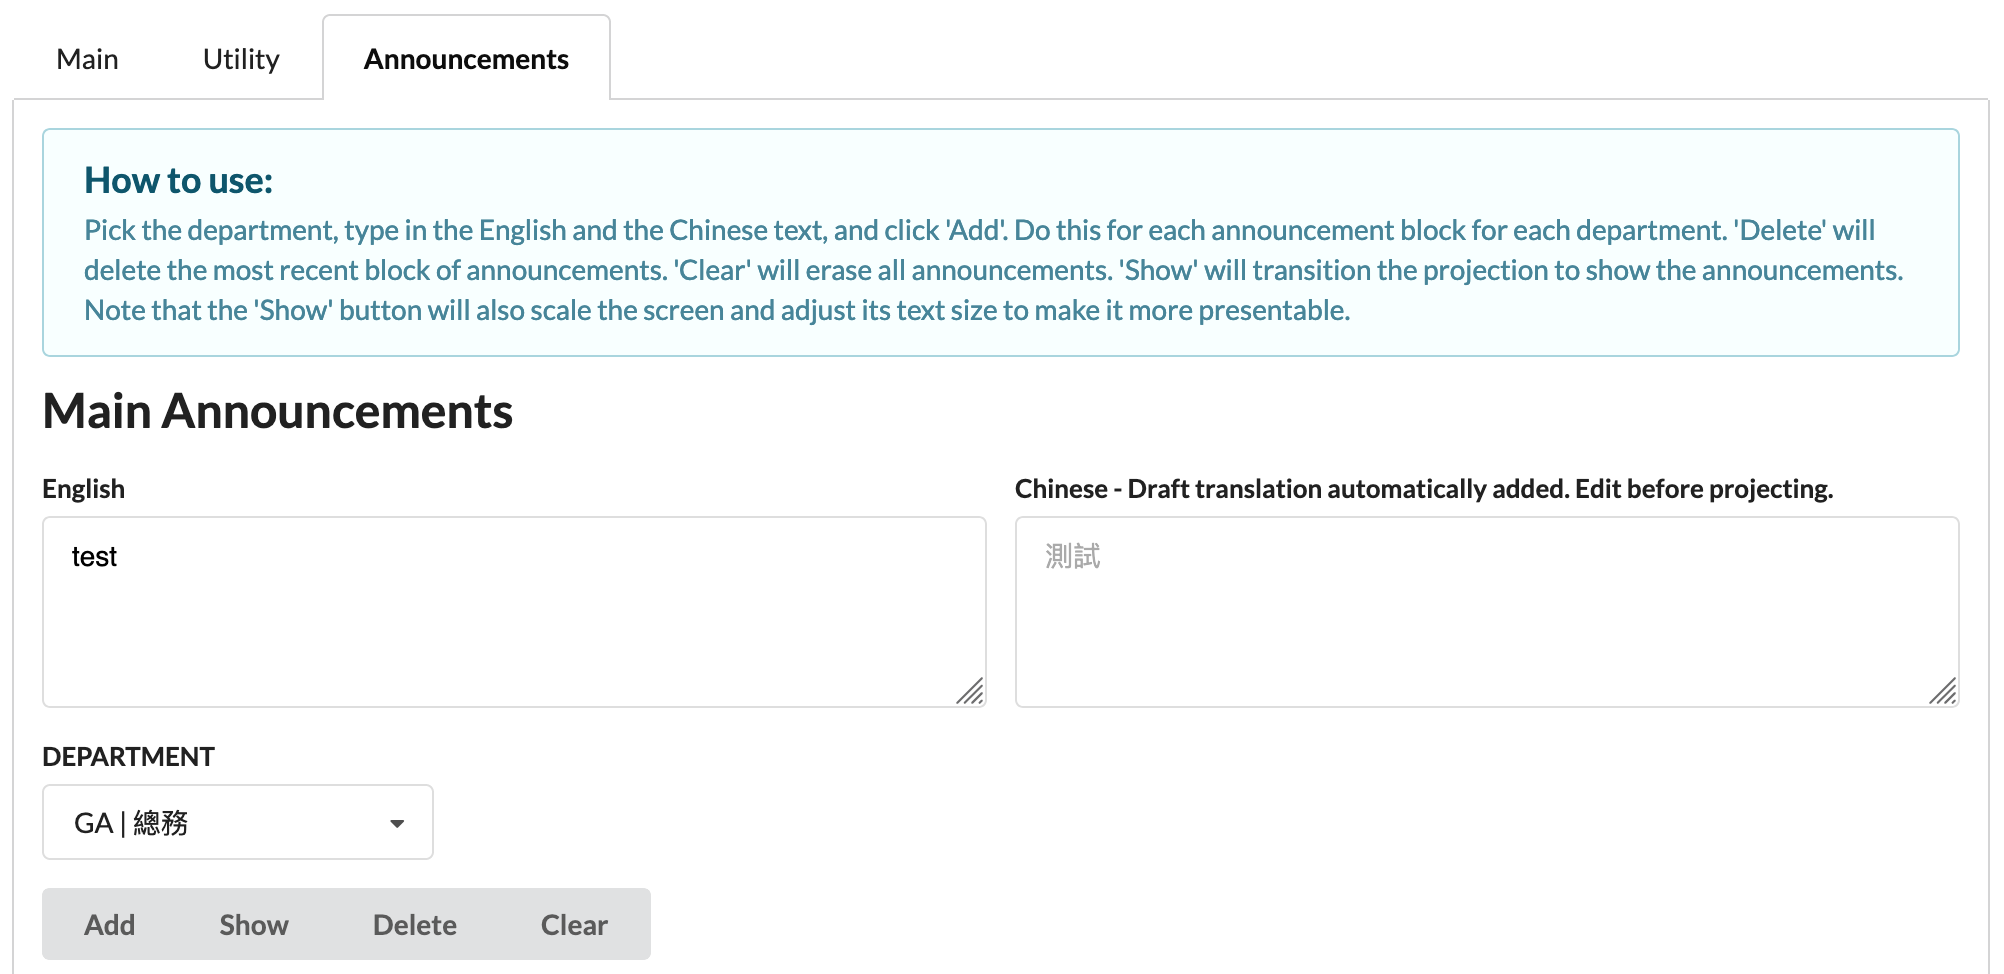
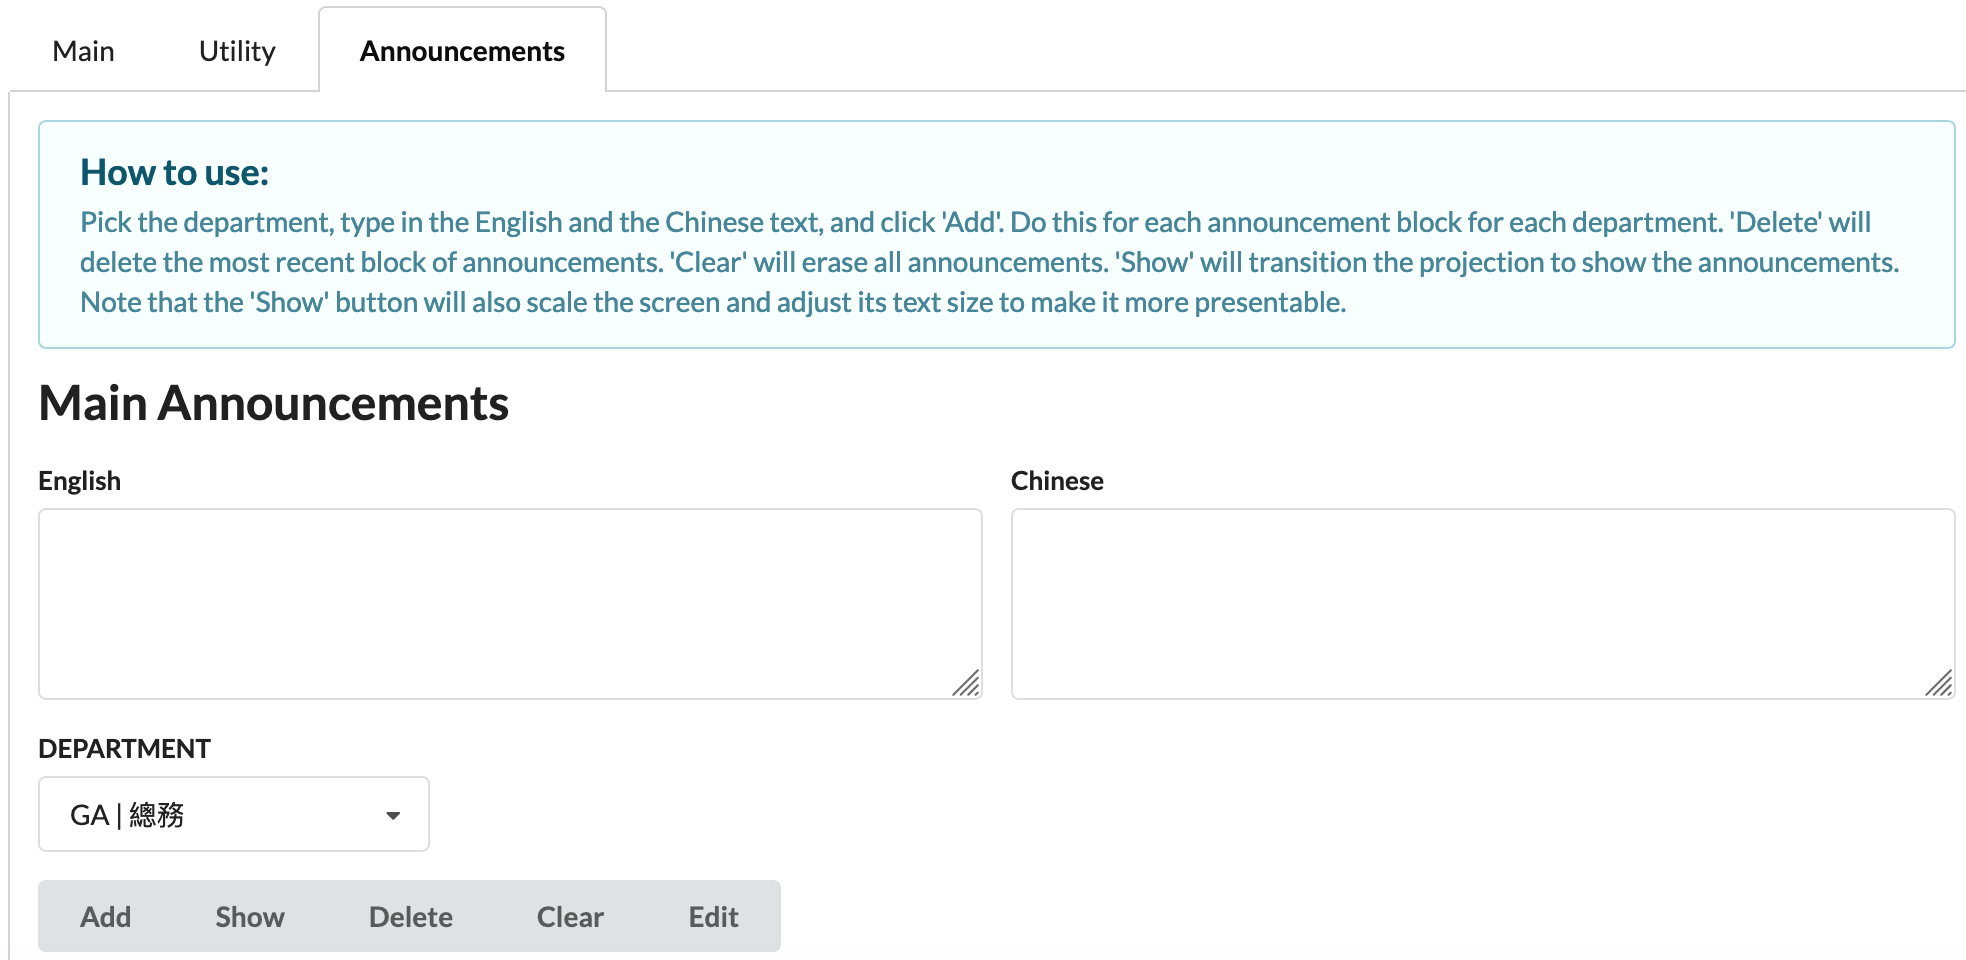
#46 update for announcement edits

diff --git a/templates/how-to.html b/templates/how-to.html
@@ -165,7 +165,8 @@
       <li>Select the Department.</li>
       <li>Hit "Clear" to start from an empty list of announcements.</li>
       <li>Hit "Add" to move what you entered into a list of announcements in memory (<em><strong>NOTE:</strong> this will <strong>immediately</strong> display announcements on the projection</em>).</li>
-      <li>If you make a mistake, you can hit "Delete". (Or: you can go to the projection and directly edit the text. Just click and type.)</li>
+      <li>To delete the more recent announcement, hit "Delete".
+      <li>To edit any announcement, hit "Edit" (it will open up an editor window).</li>
       <li>Go to the projection page to see it update live (example: <em>http://127.0.0.1:9000/toronto</em>). Otherwise go back to the "Main" tab and hit the <img src="static/instructions/new-window.png" alt="New Window" title="New Window" style="width:90px;" align="top"> button.</li>
       <li>Make sure to also update the Bible Reading and Cleaning Groups section (see below).</li>
     </ol>
